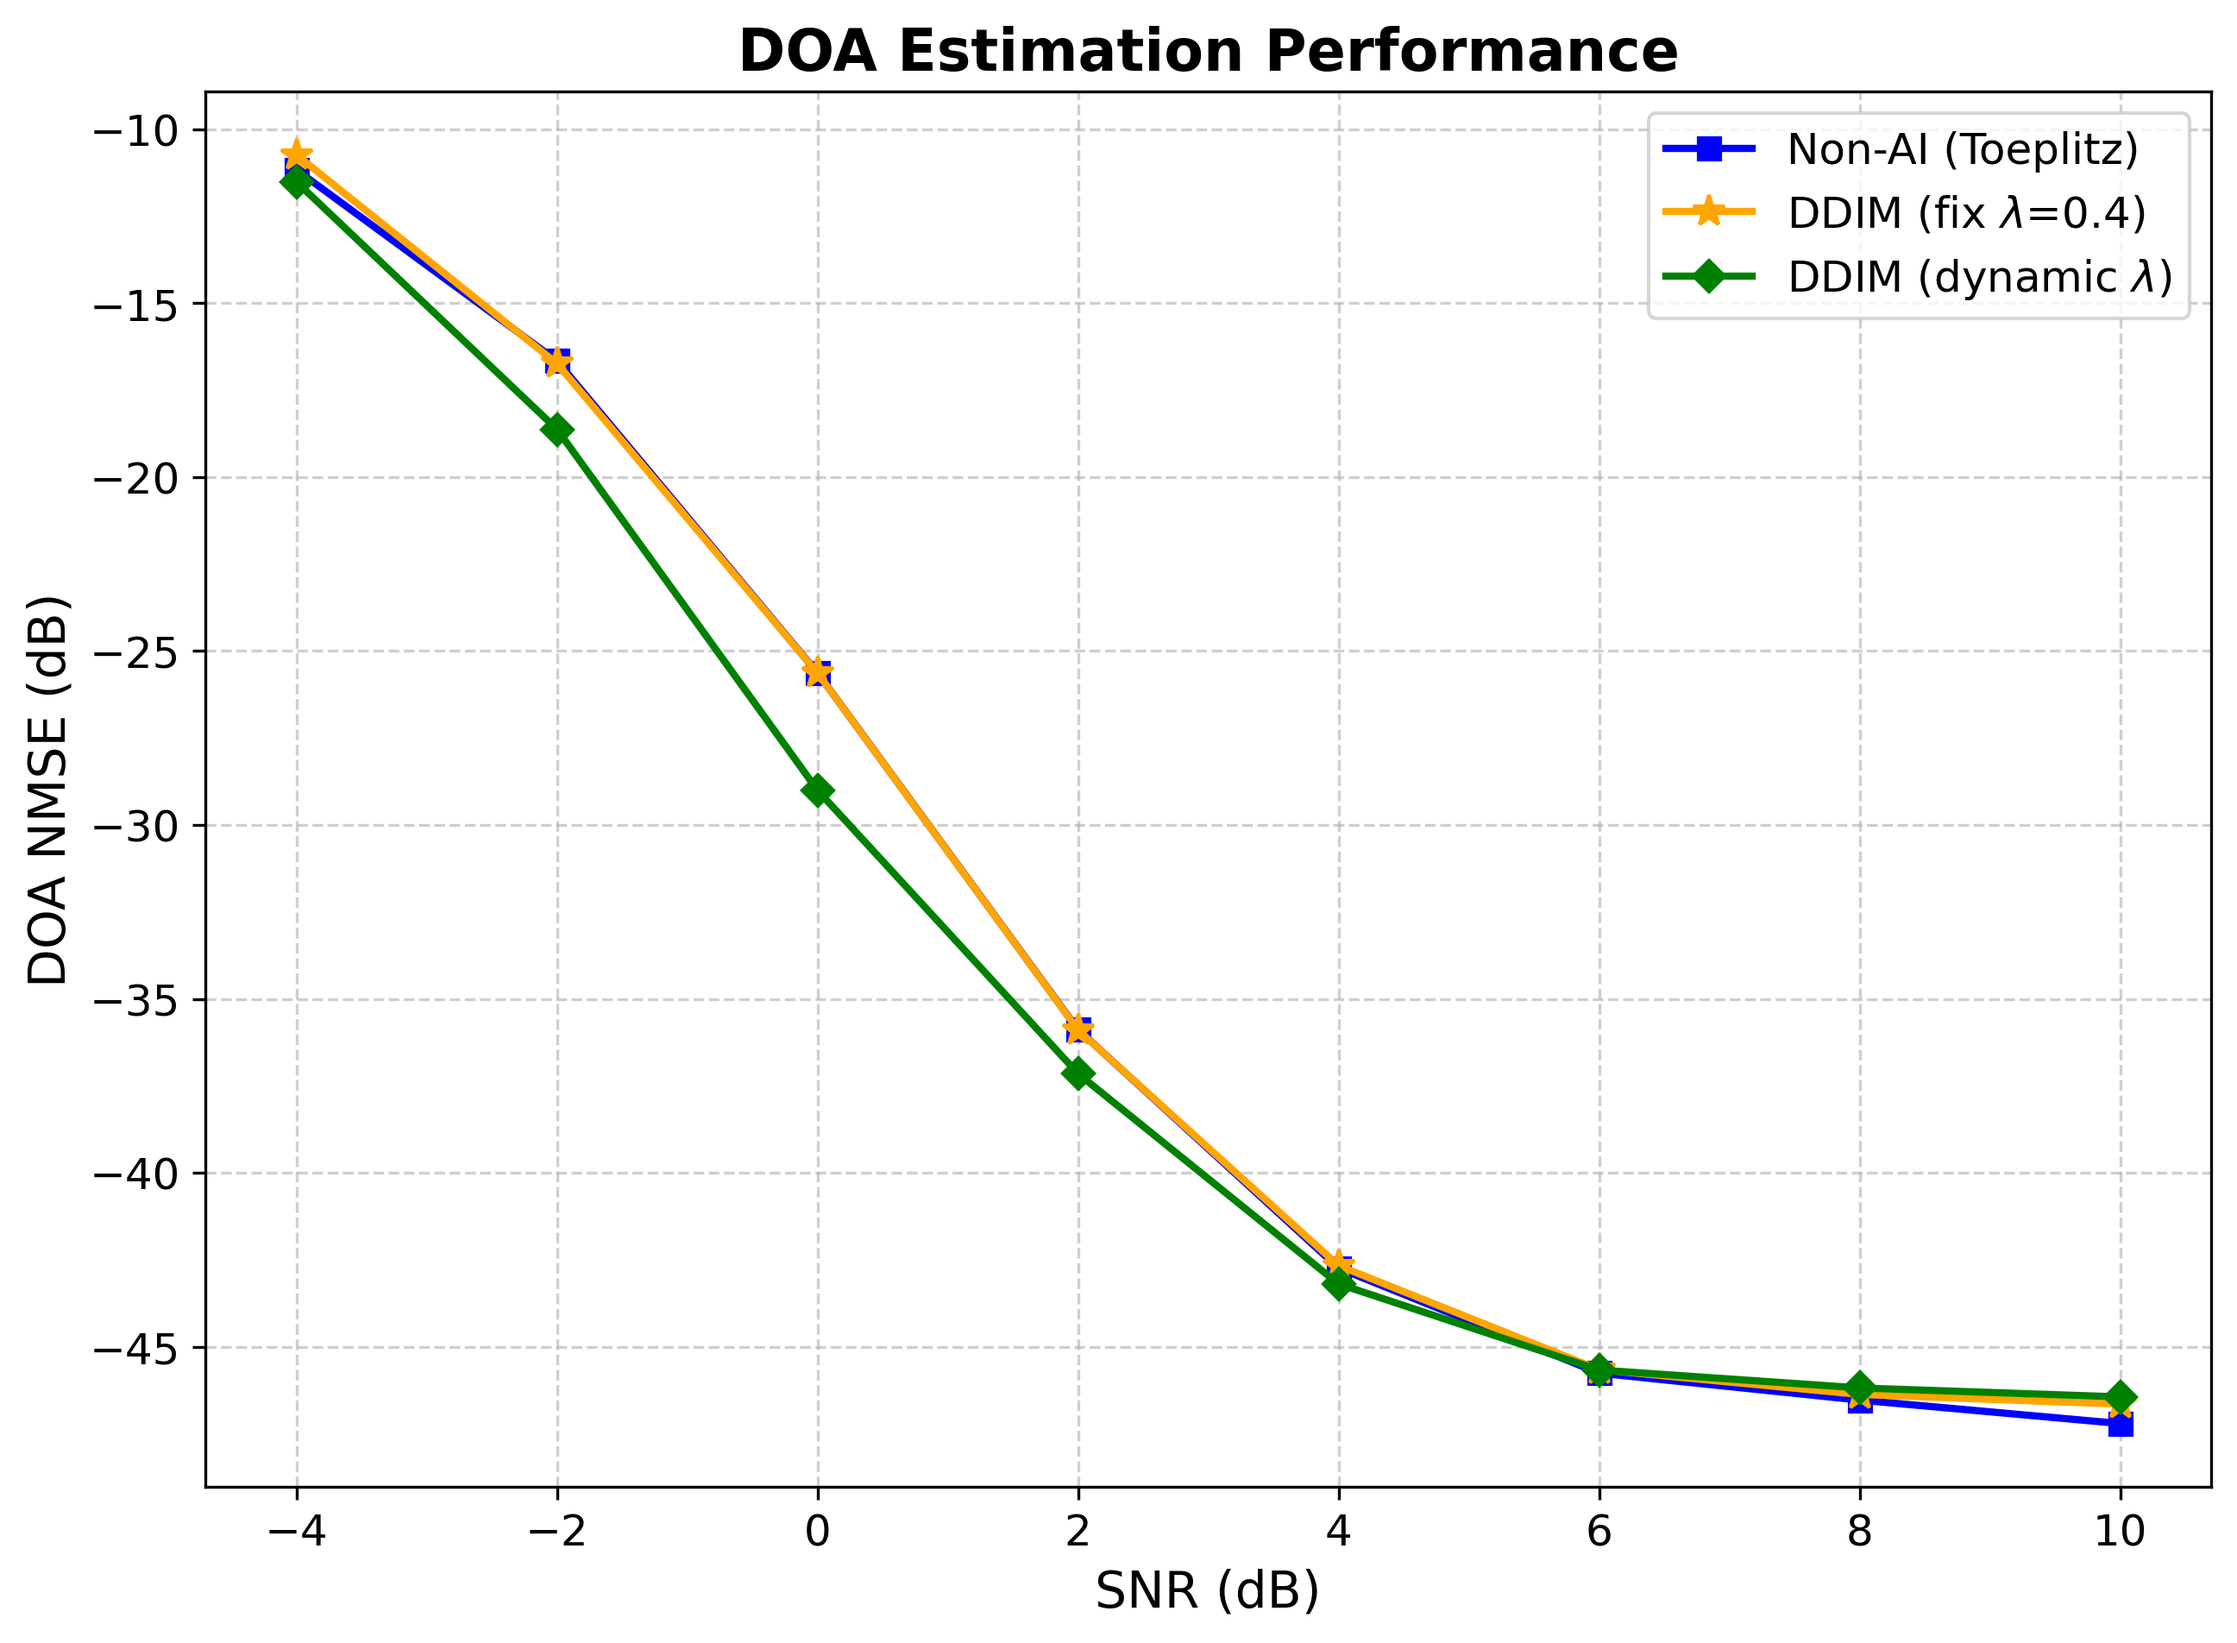
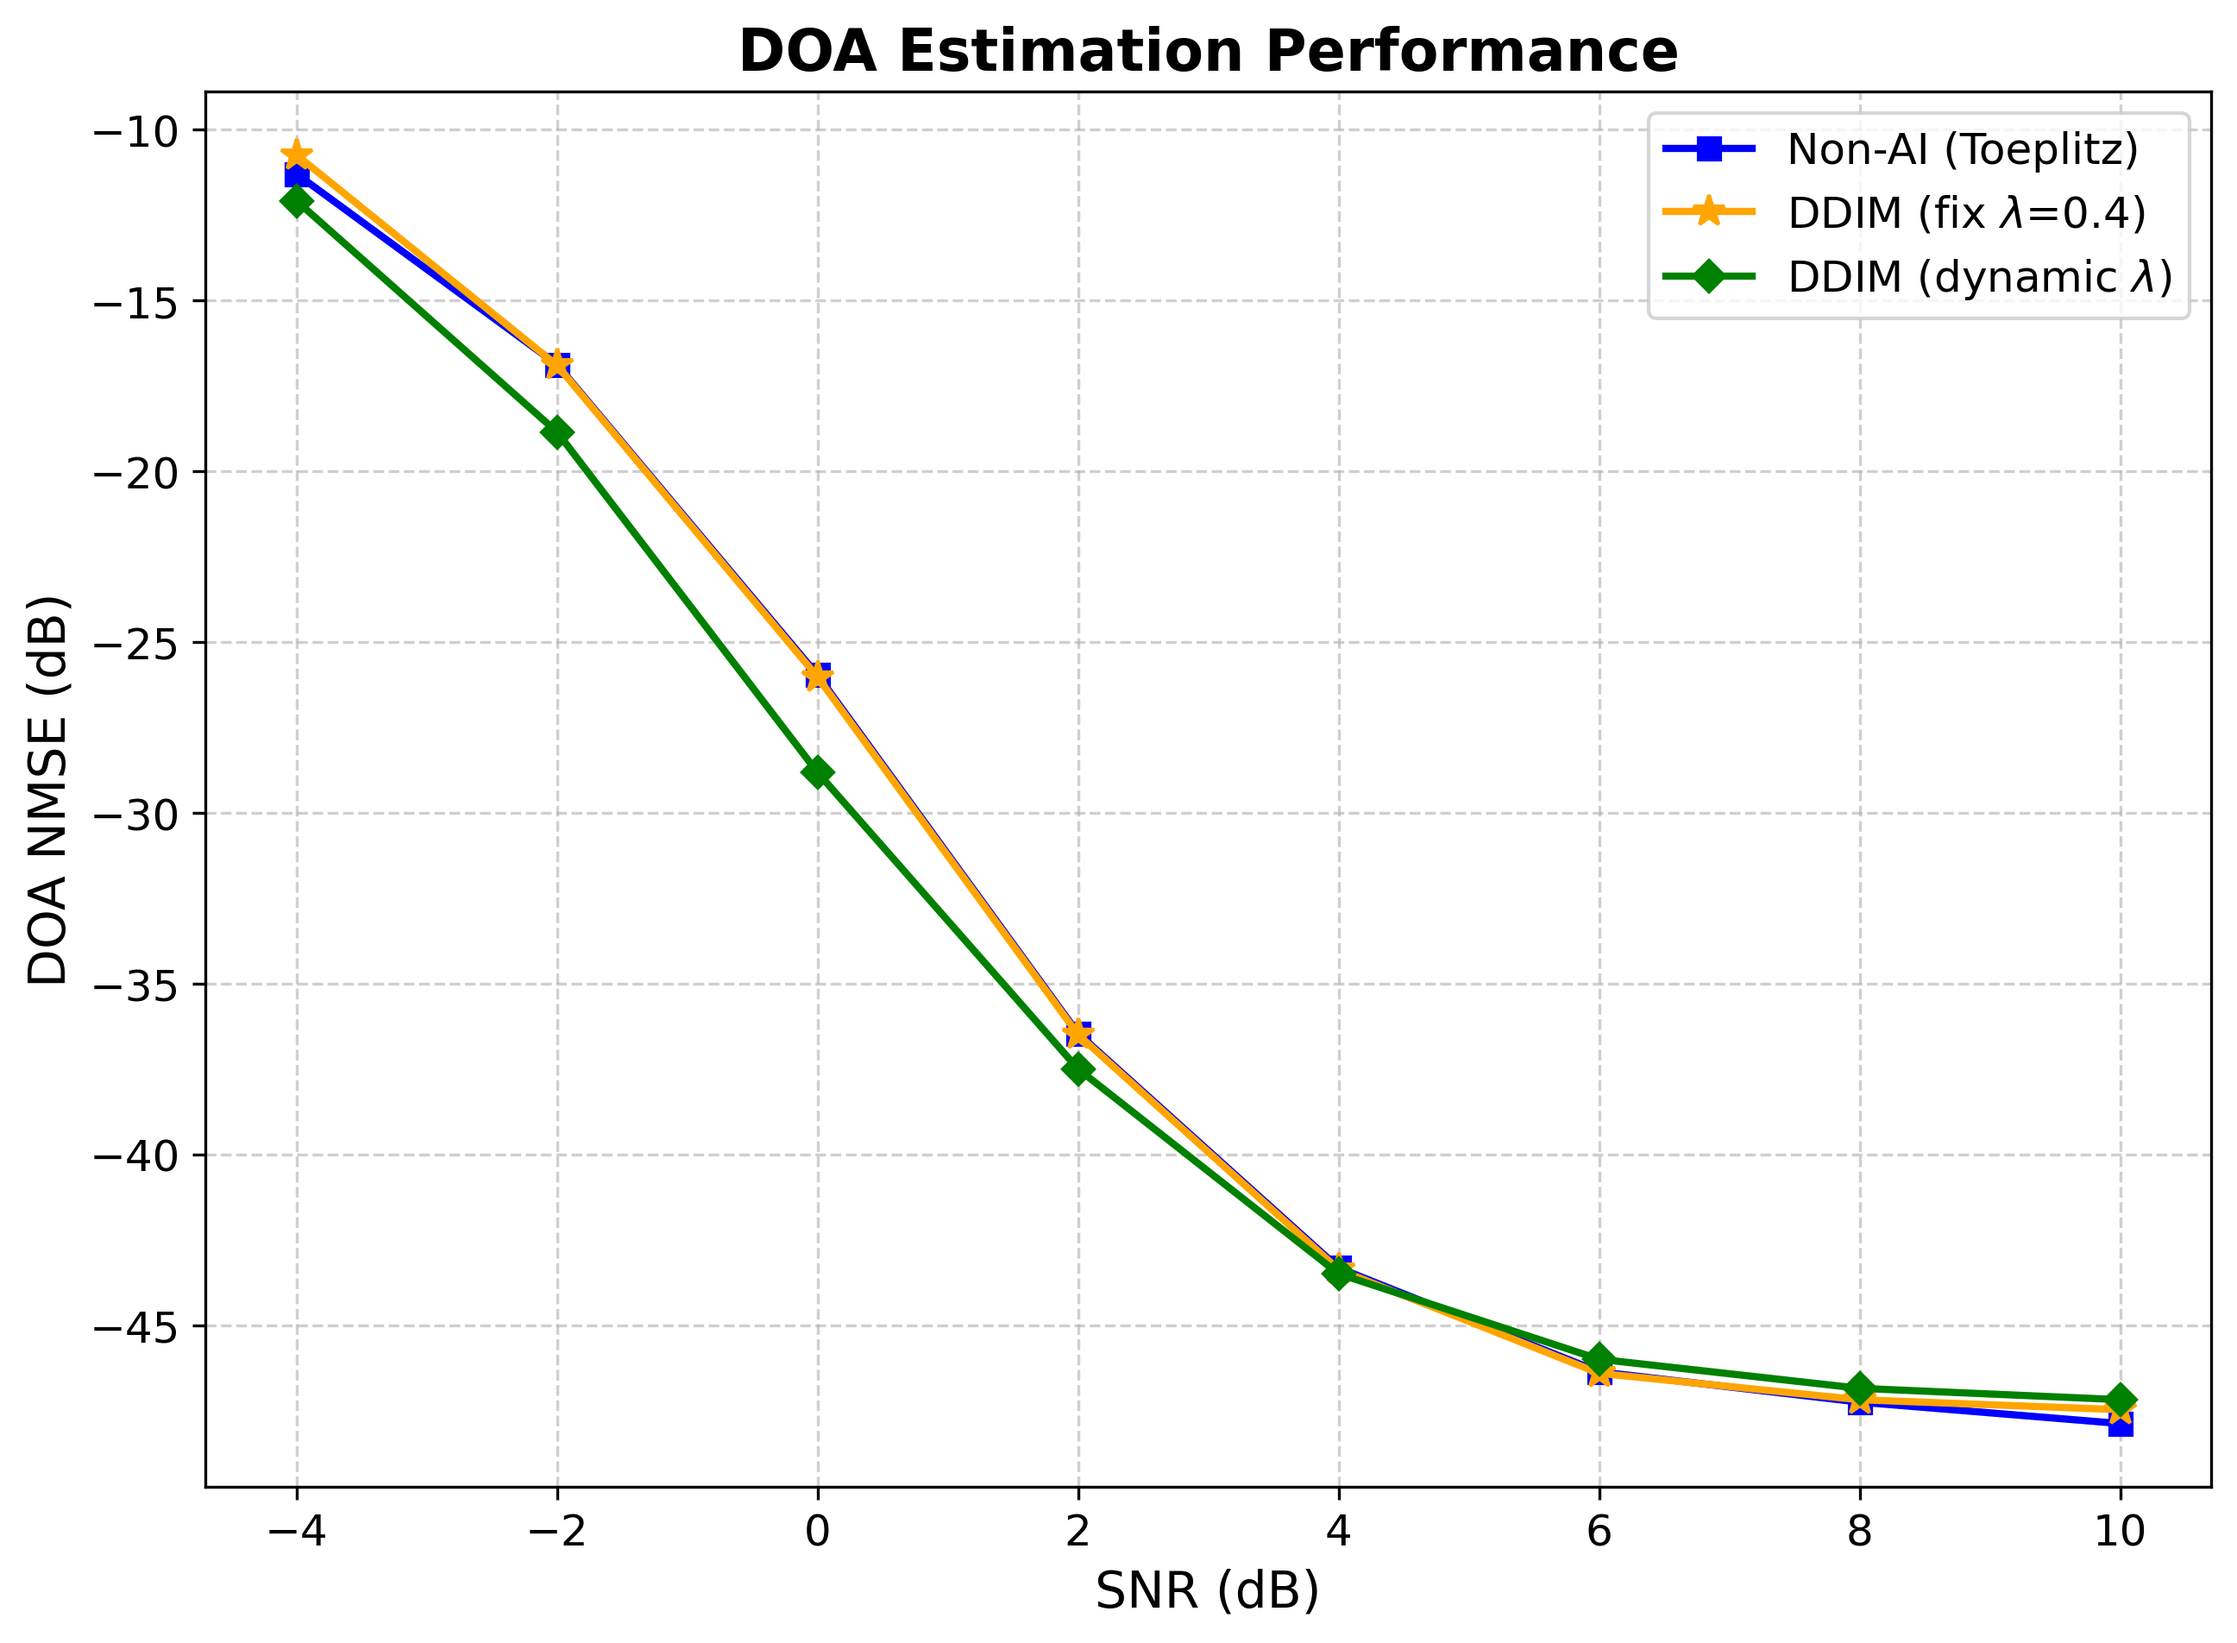
test(validation): verify DDIM performance on sim/ and sim2/
Reverted to original datasets and performed final validation tests.

Key Conclusions:
1. Dynamic Lambda:
   - Performs best in DOA estimation.
   - Slightly underperforms fixed lambda in high SNR regions for MCM.

2. DDIM vs non-AI (sim2/):
   - Tuning lambda to 0.4 allows DDIM to match non-AI performance (w/ monotone off, toeplitz_k=4).
   - Identified that enforcing M11 (M[:,0,0]) is redundant as build_M already ensures diagonal terms are 1.

diff --git a/sim/test_DDIM_dynamic_lambda.py b/sim/test_DDIM_dynamic_lambda.py
@@ -13,14 +13,14 @@ if not torch.cuda.is_available():
     exit()
 
 device = torch.device("cuda:1")
-TEST_DATA_PATH = "dataset/testing_data_Size3000.pt"
+TEST_DATA_PATH = "dataset/test_data_all_snr.pt"
 MODEL_PATH = "weights/DDIM_ep50_lr1e-03_t1000_bmax2e-02_nmlz.pth"
 
 # DDIM Params
 T = 1000
 GUIDANCE_LAMBDA = 1   #################
 NUM_STEPS = 50 
-BATCH_SIZE = 600
+BATCH_SIZE = 3000
 NUM_TEST_SAMPLES = 3000
 OUTPUT_PATH = f"test_results/test_results_DDIM_lamb{GUIDANCE_LAMBDA:.0e}_bmax2e-02_nmlz_.pt"  #######
 # Precompute schedules
@@ -225,7 +225,7 @@ def run_benchmark():
     data_std = checkpoint['data_std'].to(device)
 
     full_dataset = torch.load(TEST_DATA_PATH)
-    snr_levels = sorted(full_dataset['observations'].keys())
+    snr_levels = sorted(full_dataset.keys())
     
     final_results = {
         "snr_levels": snr_levels,
@@ -236,8 +236,8 @@ def run_benchmark():
     print(f"Starting Method 3 Benchmark (Batch Size: {BATCH_SIZE})...")
     
     for snr in snr_levels:
-        Ys_obs = full_dataset['observations'][snr].to(device)
-        num_samples = Ys_obs.shape[0]
+        samples = full_dataset[snr][:NUM_TEST_SAMPLES]
+        num_samples = len(samples)
         print(f"Processing SNR {snr}dB ({num_samples} samples)...")
         
         # Temporarily store all errors for this SNR level
@@ -247,19 +247,19 @@ def run_benchmark():
         # === [Key Modification] Mini-Batch Loop ===
         # Process data in chunks of BATCH_SIZE to manage GPU memory
         for i in tqdm(range(0, num_samples, BATCH_SIZE), desc=f"SNR {snr}dB"):
-            Y_batch = Ys_obs[i : i + BATCH_SIZE]
+            batch_samples = samples[i : i + BATCH_SIZE]
             
             # 1. Prepare Batch Data
-            # Y_batch = torch.stack([s['Y'] for s in batch_samples]).to(device) # (B, N, L)
-            theta_true = full_dataset['theta_true'][i : i + BATCH_SIZE].to(device)
-            M_true = full_dataset['M_true'][i : i + BATCH_SIZE].to(device)
+            Y_batch = torch.stack([s['Y'] for s in batch_samples]).to(device) # (B, N, L)
+            theta_true = torch.stack([s['theta_true'] for s in batch_samples]).to(device)
+            M_true = torch.stack([s['M_true'] for s in batch_samples]).to(device)
             
             # 2. DDIM Denoising
             with torch.no_grad():
                 X_est = batch_ddim_sampler(Y_batch, eps_net, snr, data_mean, data_std)
             
             # 3. EM Estimation
-            theta_est, M_est = batch_run_em_solver(X_est, 16, 3)
+            theta_est, M_est = batch_run_em_solver(X_est, 16, 3, toeplitz_K=4)
             
             # 4. Metrics
             theta_true_sorted, _ = torch.sort(theta_true, dim=1)

diff --git a/sim2/DDIM/main.py b/sim2/DDIM/main.py
@@ -41,7 +41,7 @@ BETA_MIN=1e-4
 BETA_MAX=0.02
 T_DIFFUSION=1000.0
 NUM_SAMPLING_STEPS=50
-GUIDANCE_LAMBDA=0.3
+GUIDANCE_LAMBDA=0.4
 
 # testing settings
 MODEL_WEIGHT_FILE_NAME = f"DDIM_ep{NUM_EPOCHS}_lr{LR:.0e}_t{int(T_DIFFUSION)}_bmax{BETA_MAX:.0e}.pth"
@@ -104,11 +104,8 @@ elif MODE == 'test':
         print(f"\n--- Processing SNR = {snr} dB for {NUM_TEST_SAMPLES} samples ---")
 
         # Load Ys for this SNR level, shape: (Num_Samples, N, L)
-        samples = full_dataset[snr]
-        num_samples = len(samples)
-        Ys_obs = torch.stack([s['Y'] for s in samples]).to(device)
-        theta_true = torch.stack([s['theta_true'] for s in samples]).to(device)
-        M_true = torch.stack([s['M_true'] for s in samples]).to(device)
+        Ys_obs = full_dataset['observations'][snr].to(device)
+        num_samples = Ys_obs.shape[0]
 
         # =================================================================
         # Reshape for Parallel DDIM Sampling: (S, N, L) -> (N, S * L)
@@ -127,22 +124,22 @@ elif MODE == 'test':
         x0_est_all = x0_batch_est.reshape(N, num_samples, L).permute(1, 0, 2)
 
         # Calculate NMSE of \x0_hat
-        # x0_nmse = calculate_nmse_x0(x0_est_all, full_dataset['X_clean'].to(device),device=device)
+        x0_nmse = calculate_nmse_x0(x0_est_all, full_dataset['X_clean'].to(device),device=device)
 
         # --- 2. Estimate theta and \C_R using EM algorithm ---
         theta_est_batch, M_est_batch = alternating_estimation_monotone_batch(
                                             x0_est_all, N, P,
                                             num_outer=5, num_inner=50,
                                             lr_theta=5e-2, lr_M=1e-2,
-                                            toeplitz_K=5, device=device)
+                                            toeplitz_K=4, device=device)
 
         # Calculate NMSE for each SNR level
         theta_nmse_db, M_nmse_db = calculate_nmse_theta_M(theta_est_batch, M_est_batch,
-                                                            theta_true,
-                                                            M_true,
+                                                            full_dataset['theta_true'].to(device),
+                                                            full_dataset['M_true'].to(device),
                                                             snr, device=device)
         
-        # x0_nmse_results.append(x0_nmse)
+        x0_nmse_results.append(x0_nmse)
         theta_nmse_results.append(theta_nmse_db)
         M_nmse_results.append(M_nmse_db)
 

diff --git a/sim2/DDIM/em/stable_em_batch.py b/sim2/DDIM/em/stable_em_batch.py
@@ -202,16 +202,6 @@ def alternating_estimation_monotone_batch(x0_batch, N, P,
         for _ in range(num_inner):
             optimizer_theta.zero_grad()
             M_curr = build_M()
-            if enforce_M11:
-                # Normalize: M[b, 0, 0] must be 1 real
-                # Extract diagonal 0,0: M_raw[:, 0, 0] -> (B,)
-                m00 = M_curr[:, 0, 0]
-                norm_factor = (m00 / torch.abs(m00)).view(B, 1, 1)
-                M_eff = M_curr / norm_factor
-
-                # Force real unity (divide by real part of new 0,0)
-                m00_new = M_eff[:, 0, 0].real.view(B, 1, 1)
-                M_curr = M_eff / m00_new
 
             R_model = get_model_cov(M_curr, theta_est)
             
@@ -226,12 +216,12 @@ def alternating_estimation_monotone_batch(x0_batch, N, P,
 
         # --- Update M (with Monotone Check) ---
         for _ in range(num_inner):
-            # 1. Save current state (data only)
-            if use_toeplitz:
-                prev_c = c_param.clone().detach()
-            else:
-                prev_real = real_param.clone().detach()
-                prev_imag = imag_param.clone().detach()
+            # # 1. Save current state (data only)
+            # if use_toeplitz:
+            #     prev_c = c_param.clone().detach()
+            # else:
+            #     prev_real = real_param.clone().detach()
+            #     prev_imag = imag_param.clone().detach()
                 
             # Current loss for comparison
             with torch.no_grad():
@@ -246,7 +236,7 @@ def alternating_estimation_monotone_batch(x0_batch, N, P,
             losses.sum().backward()
             optimizer_M.step()
             
-            # 3. Check Monotone Condition
+            # # 3. Check Monotone Condition
             # with torch.no_grad():
             #     M_new = build_M()
             #     new_losses = compute_loss(R_y, get_model_cov(M_new, theta_est))
@@ -265,9 +255,6 @@ def alternating_estimation_monotone_batch(x0_batch, N, P,
     # Finalize
     with torch.no_grad():
         M_final = build_M()
-        if enforce_M11:
-            # Force identity on (0,0)
-            M_final[:, 0, 0] = 1.0 + 0j
         
         # Sort theta
         theta_final, _ = torch.sort(theta_est, dim=1)

diff --git a/sim2/DDIM/test_baseline_non_AI.py b/sim2/DDIM/test_baseline_non_AI.py
@@ -44,14 +44,10 @@ def run_baseline_test():
         print(f"\n--- Processing SNR = {snr} dB ---")
 
         # 2. --- Load Ys for this SNR level, shape: (Num_Samples, N, L) ---
-        samples = full_dataset[snr]
-        num_samples = len(samples)
-        Ys_obs = torch.stack([s['Y'] for s in samples]).to(device)
-        theta_true = torch.stack([s['theta_true'] for s in samples]).to(device)
-        M_true = torch.stack([s['M_true'] for s in samples]).to(device)
+        Ys_obs = full_dataset['observations'][snr].to(device)
         # calculate NMSE of x0 directly from observations (-SNR)
-        # x0_nmse = calculate_nmse_x0(Ys_obs, full_dataset['X_clean'].to(device), device=device)
-        # x0_nmse_results.append(x0_nmse)
+        x0_nmse = calculate_nmse_x0(Ys_obs, full_dataset['X_clean'].to(device), device=device)
+        x0_nmse_results.append(x0_nmse)
         
         # 3. --- Run EM estimation on the observed data directly ---
         theta_est_batch, M_est_batch = alternating_estimation_monotone_batch(
@@ -60,13 +56,13 @@ def run_baseline_test():
                                             num_inner=NUM_INNER_EM,
                                             lr_theta=LR_THETA, 
                                             lr_M=LR_M,
-                                            toeplitz_K=5,
+                                            toeplitz_K=4,
                                             device=device)
 
         # 4. --- Calculate NMSE for each SNR level ---
         theta_nmse_db, M_nmse_db = calculate_nmse_theta_M(theta_est_batch, M_est_batch,
-                                                            theta_true,
-                                                            M_true,
+                                                            full_dataset['theta_true'].to(device),
+                                                            full_dataset['M_true'].to(device),
                                                             snr, device=device)
         theta_nmse_results.append(theta_nmse_db)
         M_nmse_results.append(M_nmse_db)

diff --git a/sim/test_DDIM_ori.py b/sim/test_DDIM_ori.py
@@ -22,7 +22,7 @@ T = 50
 GUIDANCE_LAMBDA = 0.4
 NUM_STEPS = 50 
 BATCH_SIZE = 600
-NUM_TEST_SAMPLES = 600
+NUM_TEST_SAMPLES = 3000
 
 # Precompute schedules
 beta_min = 1e-4
@@ -239,7 +239,7 @@ def run_benchmark():
                 X_est = batch_ddim_sampler(Y_batch, eps_net, snr)
             
             # 3. EM Estimation
-            theta_est, M_est = batch_run_em_solver(X_est, 16, 3)
+            theta_est, M_est = batch_run_em_solver(X_est, 16, 3, toeplitz_K=4)
             
             # 4. Metrics
             theta_true_sorted, _ = torch.sort(theta_true, dim=1)

diff --git a/sim/plot_results.py b/sim/plot_results.py
@@ -17,7 +17,7 @@ FILES = {
     # "Method 2 (DDPM/SDE)":        "test_results_DDPM.pt",
     
     # "DDIM (λ=0.0)":              "test_results_DDIM_lamb0e+00.pt",
-    "DDIM (fix $\lambda$=0.4)":    "test_results_DDIM_lamb4e-1.pt",
+    "DDIM (fix $\lambda$=0.4)":    "test_results_DDIM_ori.pt",
     # "DDIM (λ=0.8)":              "test_results_DDIM_lamb8e-01.pt",
     # "DDIM (λ=1.0)":              "test_results_DDIM_lamb1e+00.pt"
     "DDIM (dynamic $\lambda$)" :      "test_results_DDIM_lamb1e+00_bmax2e-02_nmlz_.pt"

diff --git a/sim2/DDIM/data/data_loader.py b/sim2/DDIM/data/data_loader.py
@@ -25,7 +25,7 @@ def get_or_create_training_dataset(num_samples, N, P, L, device, script_dir, use
 def get_or_create_testing_dataset(num_samples, N, P, L, snr_levels, device, script_dir, use_toeplitz=True):
     dataset_dir = os.path.join(script_dir, "data", "dataset")
 
-    filename = f"test_data_all_snr.pt"
+    filename = f"training_data_Size{num_samples}.pt"
     file_path = os.path.join(dataset_dir, filename)
 
     if os.path.exists(file_path):

diff --git a/sim/test_nonAI_Toe.py b/sim/test_nonAI_Toe.py
@@ -262,7 +262,7 @@ def run_benchmark():
         P = theta_true_batch.shape[1]
         
         # 2. Run Batch Solver
-        theta_est_batch, M_est_batch = run_batch_solver(Y_batch, N, P)
+        theta_est_batch, M_est_batch = run_batch_solver(Y_batch, N, P, toeplitz_K=4)
         
         # 3. Compute Metrics (Vectorized)
         # Sort ground truth for comparison
